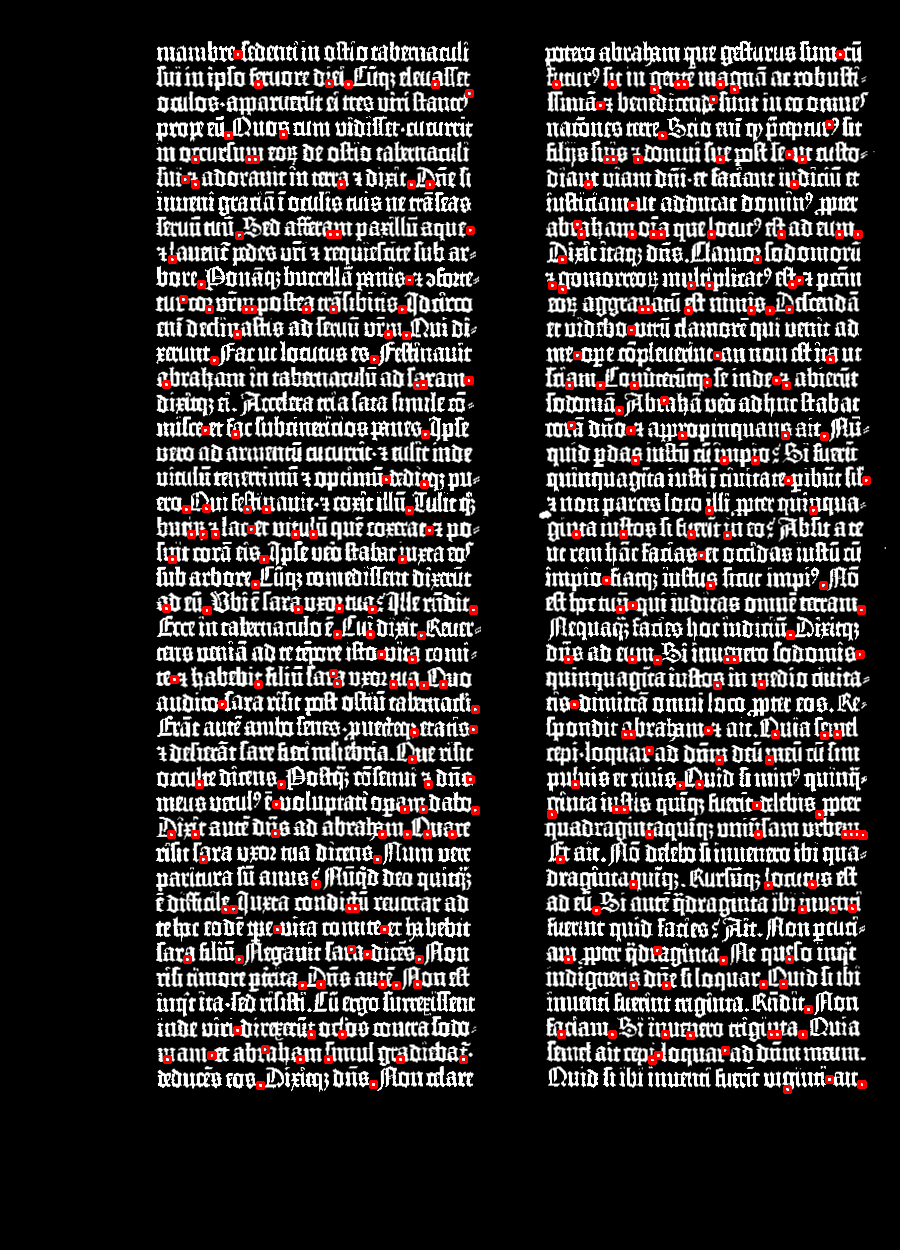
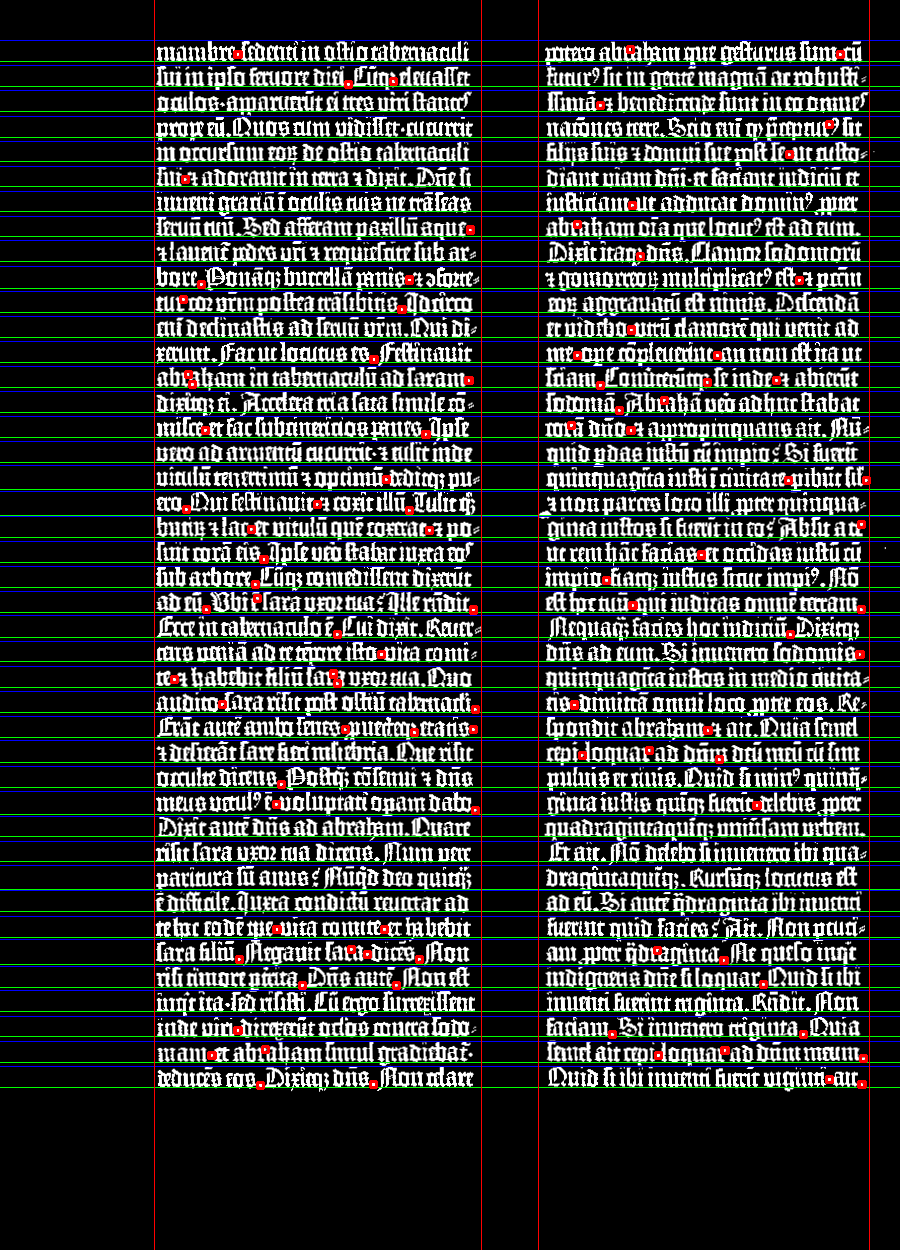
Calimero works fairly well.

Changed region(s): [[0.0, 0.0312, 1.0, 0.8736], [0.8711, 0.8424, 0.9022, 0.8736], [0.4356, 0.8424, 0.4667, 0.8736]]

diff --git a/binarizer.py b/binarizer.py
@@ -241,23 +241,15 @@ class Binarizer:
 
         method = cv.TM_SQDIFF_NORMED
 
-        # Read the images from the file
-        small_image = cropped
-        large_image = image
+        w, h = cropped.shape[:-1]
 
-        w, h = small_image.shape[:-1]
+        result = cv.matchTemplate(cropped, image, method)
 
-        result = cv.matchTemplate(small_image, large_image, method)
-
-        threshold = 0.19
+        threshold = 0.21    # best atm: 0.21
         loc = np.where(result < threshold)
         for pt in zip(*loc[::-1]):  # Switch collumns and rows
-            if np.all(image[(pt[1] + 9), (pt[0] + 3)]) == 0:
-                cv.rectangle(large_image, pt, (pt[0] + w, pt[1] + h), (0, 0, 255), 2)
+            if np.all(image[(pt[1] + 8), (pt[0] + 3)]) == 0 and np.all(image[(pt[1] - 8), (pt[0] + 3)]) == 0:
+                cv.rectangle(image, pt, (pt[0] + w, pt[1] + h), (0, 0, 255), 2)
 
         # Save the original image with the rectangle around the match.
-        cv.imwrite('calimered.png', large_image)
-
-        # The image is only displayed if we call this
-        cv.waitKey(0)
-
+        cv.imwrite('calimered.png', image)

diff --git a/main.py b/main.py
@@ -8,6 +8,6 @@ binar = bin.Binarizer(bible)
 #binar.binarize()
 #binar.rotate('image.png')
 #binar.linesCropping('Gut-027.jpg')
-img = cv.imread('threshed.png')
+img = cv.imread('result.png')
 cropped = cv.imread('cropped.png')
 binar.calimero(img, cropped)
